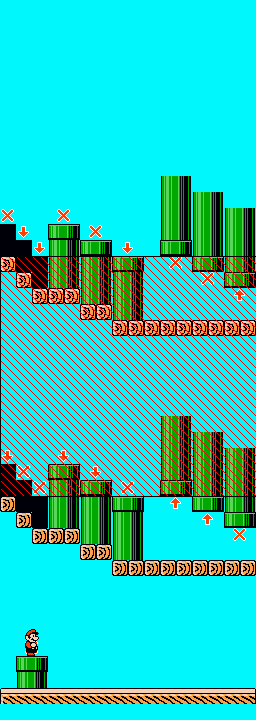
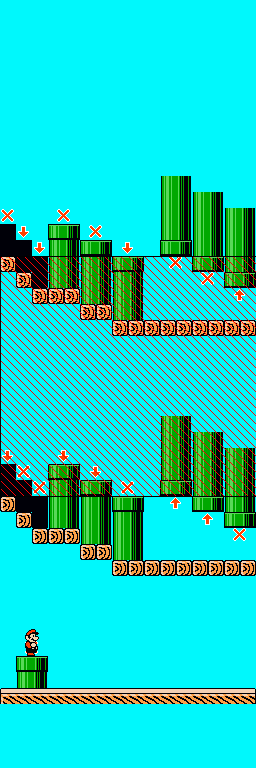
make vertical level test independent of screen resolution

diff --git a/foundry/gui/LevelView.py b/foundry/gui/LevelView.py
@@ -2,7 +2,7 @@ from bisect import bisect_right
 from typing import List, Optional, Tuple, Union
 from warnings import warn
 
-from PySide6.QtCore import QPoint
+from PySide6.QtCore import QPoint, QSize
 from PySide6.QtGui import QMouseEvent, QPaintEvent, QPainter, QWheelEvent, Qt
 from PySide6.QtWidgets import QToolTip, QWidget
 
@@ -150,6 +150,17 @@ class LevelView(MainView):
     @draw_autoscroll.setter
     def draw_autoscroll(self, value):
         self.drawer.draw_autoscroll = value
+
+    def sizeHint(self) -> QSize:
+        if self.level_ref.level is None:
+            return super(LevelView, self).sizeHint()
+
+        w, h = self.level_ref.level.size
+
+        w *= self.block_length * self.zoom
+        h *= self.block_length * self.zoom
+
+        return QSize(w, h)
 
     def mousePressEvent(self, event: QMouseEvent):
         pressed_button = event.button()

diff --git a/foundry/game/level/Level.py b/foundry/game/level/Level.py
@@ -73,6 +73,10 @@ class Level(LevelLike):
 
         if self.layout_address == self.enemy_offset == 0:
             # probably loaded to become an m3l
+            self.size = (0, 0)
+            self.header = bytearray(9)
+            self.object_factory = None
+            self.enemy_factory = None
             return
 
         rom = ROM()

diff --git a/foundry/game/level/test_level_drawing.py b/foundry/game/level/test_level_drawing.py
@@ -123,6 +123,8 @@ def test_draw_jumps(jump_test_name, level, qtbot):
         view.draw_jumps = True
         view.draw_grid = False
 
+        view.resize(view.sizeHint())
+
         compare_images(jump_test_name, str(Path(__file__).parent / f"{jump_test_name}.png"), view.grab())
 
 
